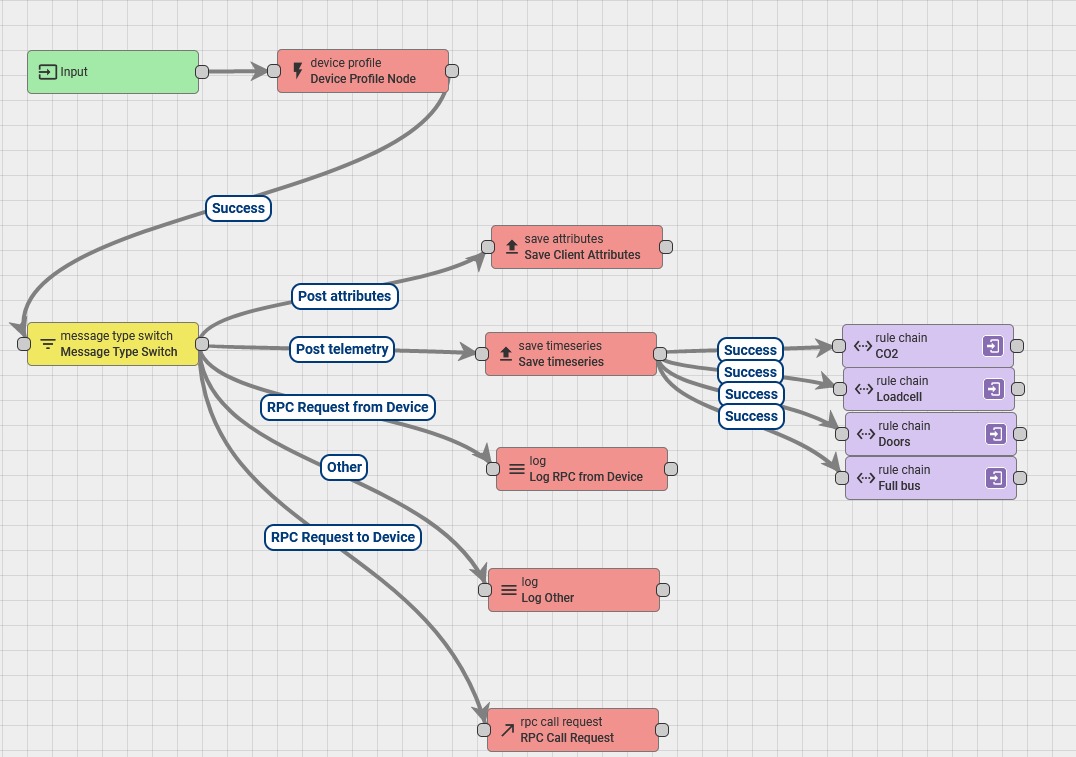
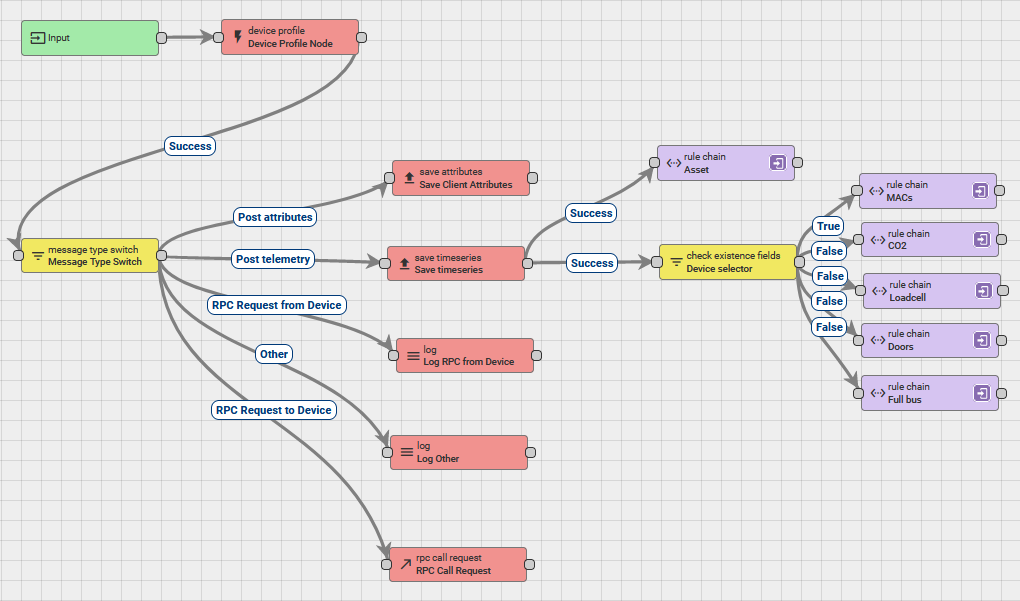
docu thingsboard

diff --git a/thingsboard-doc.html b/thingsboard-doc.html
@@ -92,7 +92,11 @@
 									<tr>
 										<td></td>
 										<td><a href="#device_2">Creación de Device y Device profile</a></td>
-									</tr>									
+									</tr>	
+									<tr>
+										<td></td>
+										<td><a href="#device_3">Assets</a></td>
+									</tr>																		
 									<tr>
 										<td>Rule chains</td>
 										<td><a href="#rule_1">Root rule</a></td>
@@ -119,7 +123,11 @@
 									<tr>
 										<td></td>
 										<td><a href="#rule_7">Doors rule</a></td>
-									</tr>																	
+									</tr>	
+									<tr>
+										<td></td>
+										<td><a href="#rule_8">Asset rule</a></td>
+									</tr>																									
 								</tbody>
 							</table>
 						</div>
@@ -188,6 +196,17 @@
 								El perfil del device en este caso lo dejamos en el default, sin definir nada en particular.
 							</p>
 
+							<h2 id="device_3" style="background:#2f3647; text-align:center">Assets</h2>
+							<p>La creación del asset es necesaria para poder combinar los datos de los dos devices del sistema. Esta combinación se refleja con una relación definida en el asset y se implementa en la rule chain BondIoT-ESP8266-Asset_Rule. </p>
+							<img src="./files/thingsboard/asset1.png" style="width:60%;height:50%" />
+
+							<img src="./files/thingsboard/asset2.png" style="width:60%;height:50%" />
+							<p>El Asset type puede ser cualquiera a los efectos de este proyecto, en este caso se llama igual que el Asset y se define en el momento de creación, en la misma ventana.</p>
+							<img src="./files/thingsboard/asset3.png" style="width:60%;height:50%" />
+							<img src="./files/thingsboard/asset4.png" style="width:60%;height:50%" />
+							<p>Para que la rule chain funcione las relaciones se crean como se muestra en la imagen. La dirección es FROM y se agrega una por cada device involucrado.</p>
+														
+
 							<h2 style="background:#2f3647; text-align:center">Rule chains</h2>
 
 							<h3 id="rule_1" style="border:3px; border-style:solid; border-color:#2f3647; padding: 1em;; text-align:center">Root rule</h4>
@@ -223,10 +242,17 @@
 							<p><br></p>							
 
 							<h3 id="rule_4" style="border:3px; border-style:solid; border-color:#2f3647; padding: 1em;; text-align:center">MAC address rule</h4>
-							<p>Nombre de la rulechain: </p>
+							<p>En este caso tenemos dos rule chain que se encargan de manejar las MAC. </p>
+							<p>Nombre de la rulechain: BondIoT-ESP8266-Passengers_MAC</p>
+							<img src="./files/thingsboard/rule_passmac.png" style="width:60%;height:50%" />
+							<p>Se recibe en esta rule chain desde el ESP8266-01 una cadena de direcciones MAC delimitadas por dos strings: "New reading" y "End of reading". Cuando llega un "New reading" la rule chain reinicia el contador, cuando llega un "End of reading" se termina de contar y se guarda el resultado en un atributo. Mientras se está en el estado intermedio se consume la API por cada dirección MAC que haya llegado.<br></p>
+							<p>Nombre de la rulechain: BondIoT-ESP8266-Mac_vendors_API</p>
+							<img src="./files/thingsboard/rule_apimac.png" style="width:60%;height:50%" />
+							<p>El input de esta rule chain es una única dirección MAC. Esta dirección se pasa como parámetro al bloque naranja que se encarga de consumir la API de macvendors.co. El primer script verifica en el cuerpo del response si la dirección MAC corresponde con un fabricante, es decir, es una dirección real de un teléfono conectado a la red del ómnibus. En caso de ser así, se suma 1 al contador de pasajeros y se guarda el atributo.</p>
 
 							<h3 id="rule_5" style="border:3px; border-style:solid; border-color:#2f3647; padding: 1em;; text-align:center">Total passengers rule</h4>
-							<p>Nombre de la rulechain: </p>	
+							<p>Nombre de la rulechain: BondIoT-ESP8266-Total_Passengers</p>	
+							<p>Esta rule chain confirma que los datos de pasajeros sean coherentes y no nulos y procede a hacer un promedio con aquellos datos que sean correctos. Este promedio nos da el número total de pasajeros a bordo del sistema y es con este atributo que se maneja si el ómnibus va o no lleno.</p>
 
 							<h3 id="rule_6" style="border:3px; border-style:solid; border-color:#2f3647; padding: 1em;; text-align:center">Full bus rule</h4>
 							<p>Nombre de la rulechain: BondIoT-ESP8266-Notify_full_bus</p>	
@@ -242,6 +268,12 @@
 
 							<h3 id="rule_7" style="border:3px; border-style:solid; border-color:#2f3647; padding: 1em;; text-align:center">Doors rule</h4>
 							<p>Nombre de la rulechain: BondIoT-ESP8266-Passengers_Doors</p>
+							<p>El propósito de esta rule chain es únicamente guardar en un atributo la cantidad de pasajeros según las puertas que llega por telemetría en el campo doors.</p>
+
+							<h3 id="rule_8" style="border:3px; border-style:solid; border-color:#2f3647; padding: 1em;; text-align:center">Asset rule</h4>
+							<p>Nombre de la rulechain: BondIoT-ESP8266-Asset_Doors</p>
+							<p>Esta rule chain fue creada para unir en un mismo message los atributos de cantidad de pasajeros del device principal (pasajeros según celda de carga y según puertas) con el atributo de pasajeros según direcciones MAC proventiente del dispositivo que se utiliza como Sniffer.</p>
+							<p>Desde acá se llama entonces, teniendo la información agrupada en un mismo mensaje, a la rule chain encargada de ponderar los datos para determinar el número de pasajeros total.</p>
 
 						</section>
 

diff --git a/resultado/dist/resultado.html b/resultado/dist/resultado.html
@@ -8,12 +8,13 @@
 body {
   margin: 0;
   font-family: serif, sans-serif, Arial;
-  background-color: #C6D0F4;
+  background-color: #3f4e85;
+  color:#CFE6FF;
 }
 
 .header {
   text-align: center;
-  padding: 32px;
+  padding: 10px;
 }
 
 .row {
@@ -39,7 +40,8 @@ body {
 }
 
 h1.title {  /*majo*/
-    background: -webkit-linear-gradient(#4c5c96, #2a3141);
+    /*background: -webkit-linear-gradient(#4c5c96, #2a3141);*/
+    background: -webkit-linear-gradient(#fff, #4c956c);
     -webkit-background-clip: text;
     -webkit-text-fill-color: transparent;
     font-family: Lucida Console, serif; 
@@ -47,7 +49,8 @@ h1.title {  /*majo*/
 }
 
 h2.title {  /*majo*/
-    background: -webkit-linear-gradient(#4c5c96, #2a3141);
+    /*background: -webkit-linear-gradient(#4c5c96, #2a3141);*/
+    background: -webkit-linear-gradient(#fff, #4c956c);
     -webkit-background-clip: text;
     -webkit-text-fill-color: transparent;
     font-family: Lucida Console, serif; 
@@ -103,11 +106,15 @@ th:first-child, td:first-child {
 }
 
 tr:nth-child(even) {
-  background-color: #99B8D9;
+  background-color: #4c5c96;
+}
+
+a{
+  color:black;
 }
 
 thead{
-  background-color: #99B8D9;
+  background-color: #4c5c96;
 }
 /* Responsive layout - makes a two column-layout instead of four columns */
 @media screen and (max-width: 800px) {
@@ -144,8 +151,8 @@ thead{
 </ul>
 <!-- Header -->
 <div class="header">
-  <h1 class="title">El resultado</h1>
-  <p>Las siguientes imágenes y videos muestran el proyecto finalizado. Además se puede ver la tabla de materiales que detalla la función de cada uno de ellos.</p>
+  <h1 class="title">RESULTADO</h1>
+  <h3>Las siguientes imágenes y videos muestran el proyecto finalizado. Además se puede ver la tabla de materiales que detalla la función de cada uno de ellos.</h3>
 </div>
 
 <!-- Photo Grid -->
@@ -187,7 +194,7 @@ thead{
 </div>
 
 <div>                 
-  <h2 id="materiales" class="title">Materiales utilizados</h2>
+  <h2 id="materiales" class="title">TABLA DE MATERIALES</h2>
       <table class="center">
         <thead>
           <tr>
@@ -267,13 +274,13 @@ thead{
             <td>ESP8266-01</td>
             <td>1</td>
             <td>Este dispositivo fue utilizado como Sniffer de direcciones MAC. Se comunica con Thingsboard.</td>
-            <td><a href="">Eneka</a></td>                   
+            <td><a href="https://www.electronica.uy/robotica/modulos-comunicacion/m%C3%B3dulo-wifi-esp8266-esp-01-detalle.html">Eneka</a></td>
           </tr>
           <tr>
             <td>Regulador de tensión</td>
             <td>1</td>
-            <td></td>
-            <td><a href="">Eneka</a></td>                   
+            <td>La fuente de alimentación del sistema es de 5V pero el ESP8266 debe alimentarse con 3V, para esto se utilizó el regulador de tensión.</td>
+            <td><a href="https://www.electronica.uy/componentes/circuitos-integrados/linr-1117-smd-regulador-3-3v-detalle.html">Eneka</a></td>                   
           </tr>
         </tbody>
       </table>                    
